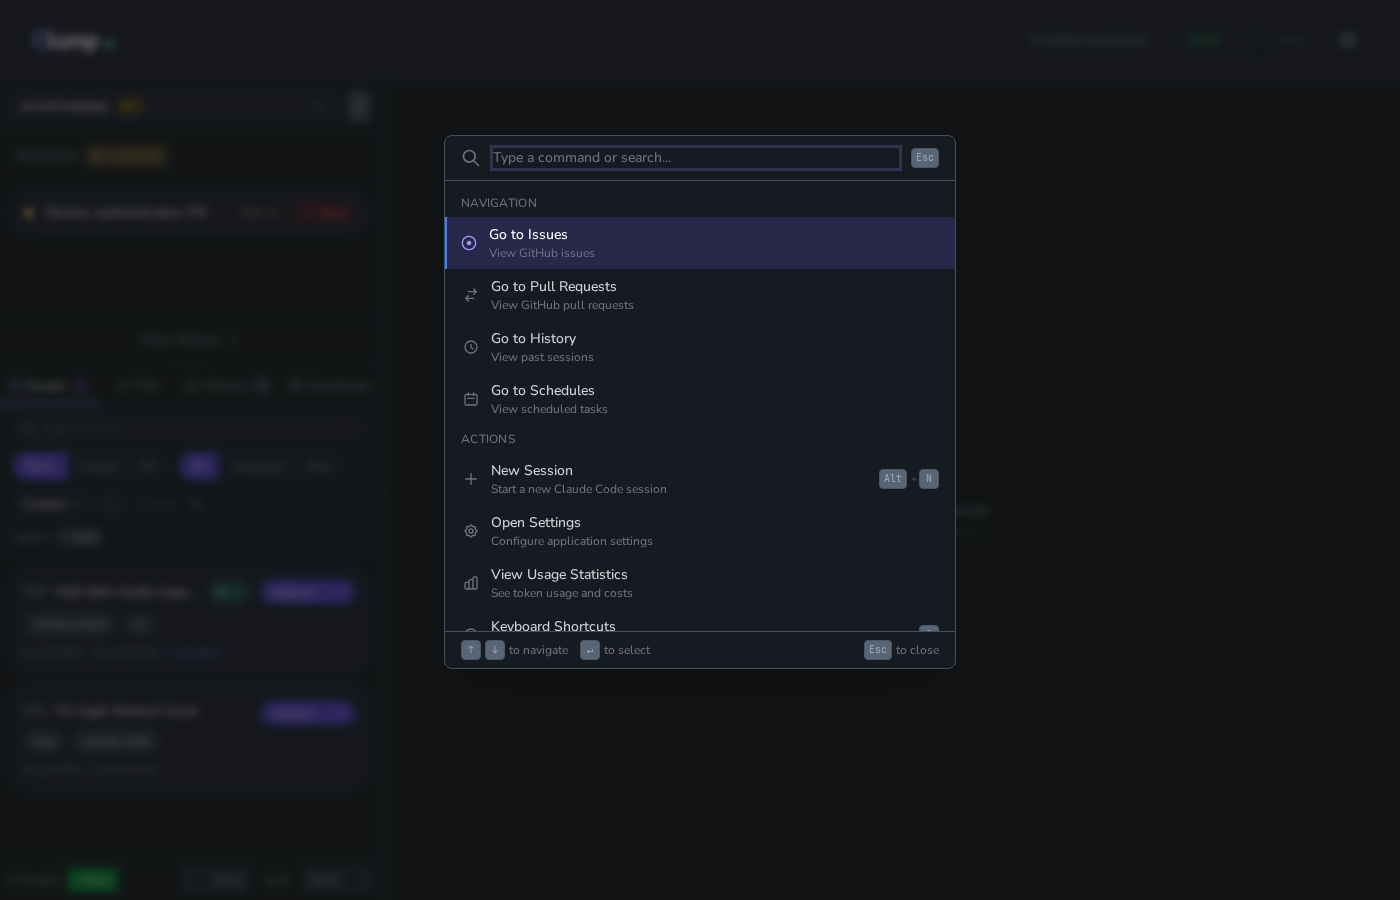
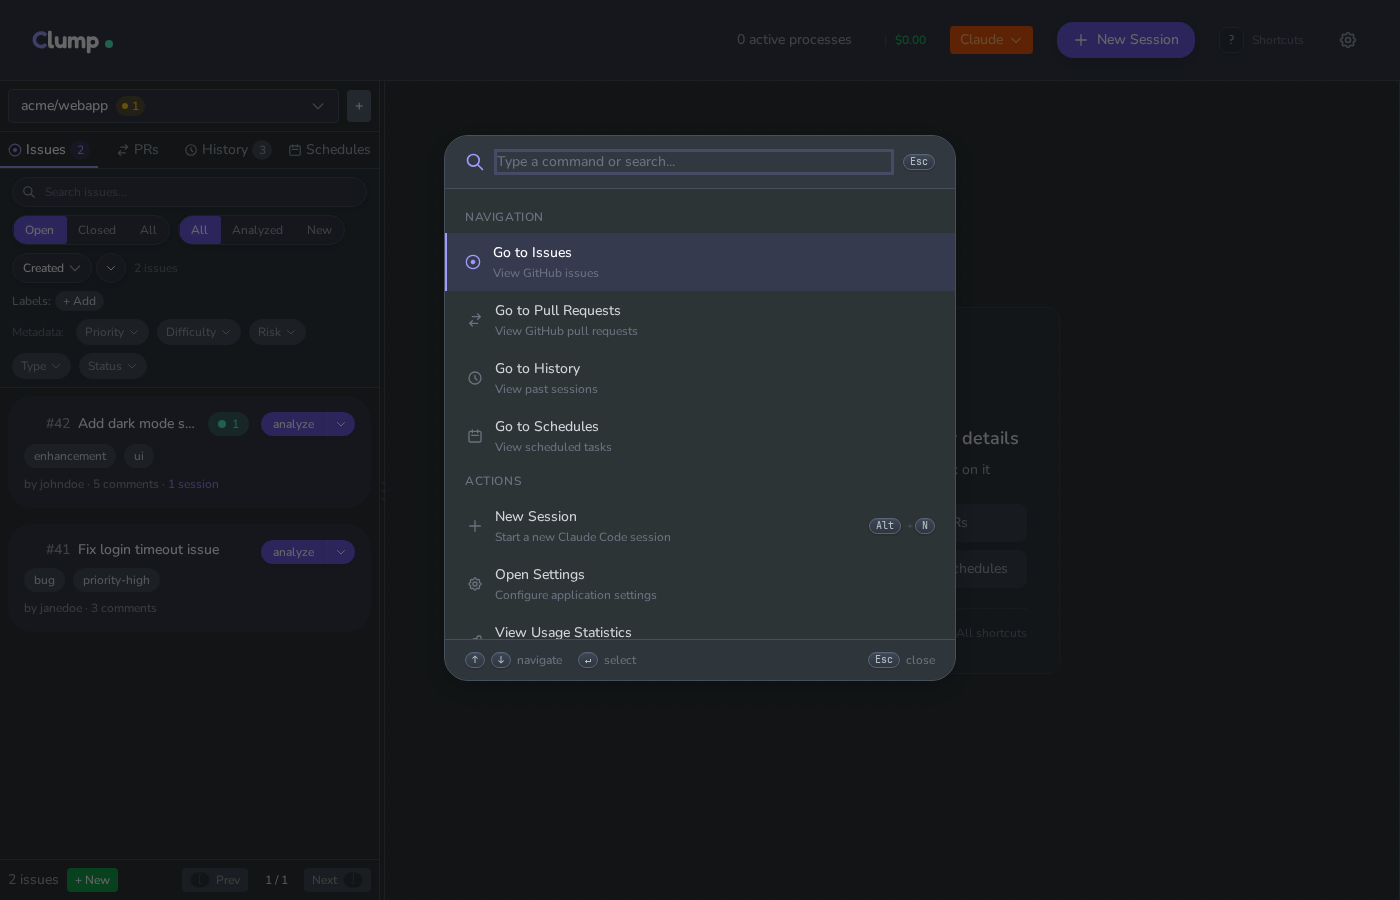
docs: Update README screenshots to reflect current UI
- Regenerate all 8 documentation screenshots
- Fix active sessions test to navigate to History tab instead of
  expecting deprecated sidebar sessions list
- Screenshots now show current UI with session transcript view,
  metadata filters, and updated styling

diff --git a/frontend/e2e/screenshots.spec.ts b/frontend/e2e/screenshots.spec.ts
@@ -141,21 +141,43 @@ test.describe('Screenshots for README', () => {
       settings: mockSettings,
     });
 
-    await mockPRDetail(page, 1, {
-      ...mockPRs[0]!,
-      comments: [],
+    // Mock the session detail for the active session
+    await mockSessionDetail(page, mockSessions[1].session_id, {
+      ...mockSessions[1],
+      messages: [
+        {
+          uuid: 'msg-1',
+          role: 'user',
+          content: 'Please review this authentication PR for security issues.',
+          timestamp: new Date(Date.now() - 15 * 60 * 1000).toISOString(),
+          tool_uses: [],
+        },
+        {
+          uuid: 'msg-2',
+          role: 'assistant',
+          content: 'I\'ll review the authentication PR for security issues. Let me start by examining the OAuth2 implementation and token handling.',
+          timestamp: new Date(Date.now() - 14 * 60 * 1000).toISOString(),
+          tool_uses: [
+            { name: 'Read', input: { file_path: 'src/auth/oauth.ts' } },
+            { name: 'Grep', input: { pattern: 'token', path: 'src/' } },
+          ],
+          model: 'claude-sonnet-4-20250514',
+        },
+      ],
     });
 
     await page.goto('/');
     await expect(page.locator('h1:has-text("Clump")')).toBeVisible();
     await selectRepo(page);
 
-    // The active session should appear in the compact sessions list
-    await expect(page.getByText('Review authentication PR').first()).toBeVisible({ timeout: 10000 });
+    // Go to History tab to see sessions including the active one
+    await page.getByRole('tab', { name: /History/i }).click();
+    await expect(page.getByText('Review authentication PR')).toBeVisible({ timeout: 10000 });
 
-    // Click the active session to show it
-    await page.getByText('Review authentication PR').first().click();
+    // Click the active session to show it in the panel
+    await page.getByText('Review authentication PR').click();
     await waitForAnimations(page);
+    await page.waitForTimeout(500); // Extra wait for session to load
 
     await page.screenshot({
       path: `${SCREENSHOT_DIR}/active-sessions.png`,
